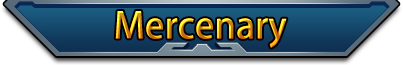
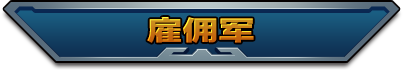
chinese version

diff --git a/Classes/APPConstants.cpp b/Classes/APPConstants.cpp
@@ -653,7 +653,7 @@ void GolbalConfig::initAchievementData(){
         v2 = LOCALIZED_STRING_MAP.find("achieveDetailWin3")->second;
         has_got = cache->getIntegerForKey(ACHIEVE_DATA_KEY_FIRST_WIN_3, REWARDS_STATUS_CLOSED);
         AchievementData data_2 = {2, ACHIEVE_DATA_KEY_FIRST_WIN_3,
-                has_got, 5, 1, "", LEVEL_4_LOCK_STATE_KEY,
+                has_got, 8, 0, "", LEVEL_4_LOCK_STATE_KEY,
                 v1.asString(), v2.asString()
         };
         _systemAchievementData.insert(std::pair<std::string, AchievementData>(ACHIEVE_DATA_KEY_FIRST_WIN_3, data_2));
@@ -662,7 +662,7 @@ void GolbalConfig::initAchievementData(){
         v2 = LOCALIZED_STRING_MAP.find("achieveDetailWin4")->second;
         has_got = cache->getIntegerForKey(ACHIEVE_DATA_KEY_FIRST_WIN_4, REWARDS_STATUS_CLOSED);
         AchievementData data_3 = {3, ACHIEVE_DATA_KEY_FIRST_WIN_4,
-                has_got, 0, 2, "", LEVEL_5_LOCK_STATE_KEY,
+                has_got, 5, 1, "", LEVEL_5_LOCK_STATE_KEY,
                 v1.asString(), v1.asString()
         };
         _systemAchievementData.insert(std::pair<std::string, AchievementData>(ACHIEVE_DATA_KEY_FIRST_WIN_4, data_3));
@@ -671,7 +671,7 @@ void GolbalConfig::initAchievementData(){
         v2 = LOCALIZED_STRING_MAP.find("achieveDetailWin5")->second;
         has_got = cache->getIntegerForKey(ACHIEVE_DATA_KEY_FIRST_WIN_5, REWARDS_STATUS_CLOSED);
         AchievementData data_4 = {4, ACHIEVE_DATA_KEY_FIRST_WIN_5,
-                has_got, 5, 2, "", LEVEL_6_LOCK_STATE_KEY,
+                has_got, 10, 1, "", LEVEL_6_LOCK_STATE_KEY,
                 v1.asString(), v2.asString()
         };
         _systemAchievementData.insert(std::pair<std::string, AchievementData>(ACHIEVE_DATA_KEY_FIRST_WIN_5, data_4));;
@@ -681,7 +681,7 @@ void GolbalConfig::initAchievementData(){
         v2 = LOCALIZED_STRING_MAP.find("achieveDetailWin6")->second;
         has_got = cache->getIntegerForKey(ACHIEVE_DATA_KEY_FIRST_WIN_6, REWARDS_STATUS_CLOSED);
         AchievementData data_5 = {5, ACHIEVE_DATA_KEY_FIRST_WIN_6,
-                has_got, 10, 2, "", LEVEL_7_LOCK_STATE_KEY,
+                has_got, 5, 2, "", LEVEL_7_LOCK_STATE_KEY,
                 v1.asString(), v2.asString()
         };
         _systemAchievementData.insert(std::pair<std::string, AchievementData>(ACHIEVE_DATA_KEY_FIRST_WIN_6, data_5));
@@ -690,7 +690,7 @@ void GolbalConfig::initAchievementData(){
         v2 = LOCALIZED_STRING_MAP.find("achieveDetailWin7")->second;
         has_got = cache->getIntegerForKey(ACHIEVE_DATA_KEY_FIRST_WIN_7, REWARDS_STATUS_CLOSED);
         AchievementData data_6 = {6, ACHIEVE_DATA_KEY_FIRST_WIN_7,
-                has_got, 0, 3, "", LEVEL_8_LOCK_STATE_KEY,
+                has_got, 10, 2, "", LEVEL_8_LOCK_STATE_KEY,
                 v1.asString(), v2.asString()
         };
         _systemAchievementData.insert(std::pair<std::string, AchievementData>(ACHIEVE_DATA_KEY_FIRST_WIN_7, data_6));
@@ -717,7 +717,7 @@ void GolbalConfig::initAchievementData(){
         v2 = LOCALIZED_STRING_MAP.find("achieveShareDetails")->second;
         has_got = cache->getIntegerForKey(ACHIEVE_DATA_KEY_FIRST_SHARE, REWARDS_STATUS_CLOSED);
         AchievementData data_9 = {9, ACHIEVE_DATA_KEY_FIRST_SHARE,
-                has_got, 19,  0, "", "",
+                has_got, 12,  0, "", "",
                 v1.asString(), v2.asString()
         };
         _systemAchievementData.insert(std::pair<std::string, AchievementData>(ACHIEVE_DATA_KEY_FIRST_SHARE, data_9));
@@ -726,7 +726,7 @@ void GolbalConfig::initAchievementData(){
         v2 = LOCALIZED_STRING_MAP.find("achieveEngageDetails")->second;
         has_got = cache->getIntegerForKey(ACHIEVE_DATA_KEY_FIRST_USE_MERCENARY, REWARDS_STATUS_CLOSED);
         AchievementData data_10 = {10, ACHIEVE_DATA_KEY_FIRST_USE_MERCENARY,
-                has_got, 0, 2, "", "",
+                has_got, 9, 1, "", "",
                 v1.asString(), v2.asString()
         };
         _systemAchievementData.insert(std::pair<std::string, AchievementData>(ACHIEVE_DATA_KEY_FIRST_USE_MERCENARY, data_10));
@@ -735,7 +735,7 @@ void GolbalConfig::initAchievementData(){
         v2 = LOCALIZED_STRING_MAP.find("achieveCloseAnimDetails")->second;
         has_got = cache->getIntegerForKey(ACHIEVE_DATA_KEY_FIRST_CLOSE_ANIM, REWARDS_STATUS_CLOSED);
         AchievementData data_11 = {11, ACHIEVE_DATA_KEY_FIRST_CLOSE_ANIM,
-                has_got, 0, 1, "", "",
+                has_got, 8, 0, "", "",
                 v1.asString(), v2.asString()
         };
         _systemAchievementData.insert(std::pair<std::string, AchievementData>(ACHIEVE_DATA_KEY_FIRST_CLOSE_ANIM, data_11));
@@ -744,7 +744,7 @@ void GolbalConfig::initAchievementData(){
         v2 = LOCALIZED_STRING_MAP.find("achieveReplayDetails")->second;
         has_got = cache->getIntegerForKey(ACHIEVE_DATA_KEY_FIRST_RETRY, REWARDS_STATUS_CLOSED);
         AchievementData data_12 = {12, ACHIEVE_DATA_KEY_FIRST_RETRY,
-                has_got, 5, 1, "", "",
+                has_got, 9, 0, "", "",
                 v1.asString(), v2.asString()
         };
         _systemAchievementData.insert(std::pair<std::string, AchievementData>(ACHIEVE_DATA_KEY_FIRST_RETRY, data_12));
@@ -754,7 +754,7 @@ void GolbalConfig::initAchievementData(){
         v2 = LOCALIZED_STRING_MAP.find("achievePurchaseDetails")->second;
         has_got = cache->getIntegerForKey(ACHIEVE_DATA_KEY_FIRST_BUY_COINS, REWARDS_STATUS_CLOSED);
         AchievementData data_13 = {13, ACHIEVE_DATA_KEY_FIRST_BUY_COINS,
-                has_got, 5, 2, "", "",
+                has_got, 10, 0, "", "",
                 v1.asString(),
                 v2.asString()
         };
@@ -765,7 +765,7 @@ void GolbalConfig::initAchievementData(){
         v2 = LOCALIZED_STRING_MAP.find("achieveColorDetails")->second;
         has_got = cache->getIntegerForKey(ACHIEVE_DATA_KEY_FIRST_CHANGE_COLOR, REWARDS_STATUS_CLOSED);
         AchievementData data_14 = {14, ACHIEVE_DATA_KEY_FIRST_CHANGE_COLOR,
-                has_got, 9, 0, "", "",
+                has_got, 5, 0, "", "",
                 v1.asString(), v2.asString()
         };
         _systemAchievementData.insert(std::pair<std::string, AchievementData>(ACHIEVE_DATA_KEY_FIRST_CHANGE_COLOR, data_14));
@@ -775,7 +775,7 @@ void GolbalConfig::initAchievementData(){
         v2 = LOCALIZED_STRING_MAP.find("achieveCharacterDetails")->second;
         has_got = cache->getIntegerForKey(ACHIEVE_DATA_KEY_FIRST_CHANGE_PLAYER, REWARDS_STATUS_CLOSED);
         AchievementData data_15 = {15, ACHIEVE_DATA_KEY_FIRST_CHANGE_PLAYER,
-                has_got, 0, 1, "", "",
+                has_got, 7, 0, "", "",
                 v1.asString(), v2.asString()
         };
         _systemAchievementData.insert(std::pair<std::string, AchievementData>(ACHIEVE_DATA_KEY_FIRST_CHANGE_PLAYER, data_15));
@@ -785,7 +785,7 @@ void GolbalConfig::initAchievementData(){
         v2 = LOCALIZED_STRING_MAP.find("achieveBuyEngageDetails")->second;
         has_got = cache->getIntegerForKey(ACHIEVE_DATA_KEY_FIRST_ENGAGE, REWARDS_STATUS_CLOSED);
         AchievementData data_16 = {16, ACHIEVE_DATA_KEY_FIRST_ENGAGE,
-                has_got, 0, 1, "", "",
+                has_got, 8, 0, "", "",
                 v1.asString(), v2.asString()
         };
         _systemAchievementData.insert(std::pair<std::string, AchievementData>(ACHIEVE_DATA_KEY_FIRST_ENGAGE, data_16));
@@ -876,6 +876,11 @@ void GolbalConfig::initBasic(){
                         RESOURCE_NAME_MAP.insert(std::pair<std::string, std::string>("game_win","game_win_title.png"));
                         RESOURCE_NAME_MAP.insert(std::pair<std::string, std::string>("game_lost","game_lost_title.png"));
                         RESOURCE_NAME_MAP.insert(std::pair<std::string, std::string>("common_tips","common_dialog_title.png"));
+                        
+                        RESOURCE_NAME_MAP.insert(std::pair<std::string, std::string>("level_tittle","level/sel_num_header.png"));
+                        
+                        RESOURCE_NAME_MAP.insert(std::pair<std::string, std::string>("start_game","level/start_game.png"));
+                        RESOURCE_NAME_MAP.insert(std::pair<std::string, std::string>("start_game_sel","level/start_game_sel.png"));
                 }
                         break;
                 case LanguageType::CHINESE:{
@@ -904,6 +909,11 @@ void GolbalConfig::initBasic(){
                         RESOURCE_NAME_MAP.insert(std::pair<std::string, std::string>("game_win","game_win_title_zh.png"));
                         RESOURCE_NAME_MAP.insert(std::pair<std::string, std::string>("game_lost","game_lost_title_zh.png"));
                         RESOURCE_NAME_MAP.insert(std::pair<std::string, std::string>("common_tips","common_dialog_title_zh.png"));
+                        
+                        RESOURCE_NAME_MAP.insert(std::pair<std::string,
+                                                 std::string>("level_tittle","level/sel_num_header_zh.png"));
+                        RESOURCE_NAME_MAP.insert(std::pair<std::string, std::string>("start_game","level/start_game_zh.png"));
+                        RESOURCE_NAME_MAP.insert(std::pair<std::string, std::string>("start_game_sel","level/start_game_sel_zh.png"));
                 }
                         break;
         }

diff --git a/Classes/Scenes/NoviceGuideScene.cpp b/Classes/Scenes/NoviceGuideScene.cpp
@@ -197,7 +197,8 @@ void NoviceGuide::initController(){
         operat_board_m->addChild(_choseMapLayer);
         
         auto OK_btn = cocos2d::ui::Button::create("DIALOG_OK.png", "DIALOG_OK_SEL.png");
-        OK_btn->setTitleText("YES");
+        auto v1 = LOCALIZED_STRING_MAP.find("YES")->second;
+        OK_btn->setTitleText(v1.asString());
         OK_btn->setTitleFontSize(30);
         OK_btn->addClickEventListener(CC_CALLBACK_1(NoviceGuide::menuStartGame, this));
         OK_btn->setPosition(Vec2(tips->getContentSize().width + 0.7f * OK_btn->getContentSize().width,
@@ -206,7 +207,8 @@ void NoviceGuide::initController(){
         
         
         auto NO_btn = cocos2d::ui::Button::create("DIALOG_CANCEL.png", "DIALOG_CANCEL_SEL.png");
-        NO_btn->setTitleText("NO");
+        auto v2 = LOCALIZED_STRING_MAP.find("NO")->second;
+        NO_btn->setTitleText(v2.asString());
         NO_btn->setTitleFontSize(30);
         NO_btn->setPosition(Vec2(OK_btn->getPosition().x + NO_btn->getContentSize().width * 1.1f,
                                  operat_board_m->getContentSize().height / 2));
@@ -228,7 +230,8 @@ void NoviceGuide::initController(){
         operat_board_m->addChild(_endTurnTipsLayer);
         
         _endTurnBtn = cocos2d::ui::Button::create("DIALOG_OK.png", "DIALOG_OK_SEL.png");
-        _endTurnBtn->setTitleText("END TURN");
+        auto v5 = LOCALIZED_STRING_MAP.find("endTurn")->second;
+        _endTurnBtn->setTitleText(v5.asString());
         _endTurnBtn->setTitleFontSize(22);
         _endTurnBtn->addClickEventListener(CC_CALLBACK_1(NoviceGuide::menuEndTurn, this));
         _endTurnBtn->setPosition(Vec2(operat_board_m->getContentSize().width - 48 - _endTurnBtn->getContentSize().width / 2,

diff --git a/Classes/Scenes/LevelSelectScene.cpp b/Classes/Scenes/LevelSelectScene.cpp
@@ -177,7 +177,8 @@ Size LevelSelect::initCenterMainFrame(Vec2 position_num){
         _num_sel_back_grd->setPosition(pos_1);
         chose_num_back->addChild(_num_sel_back_grd);
         
-        auto chose_num_header = Sprite::create("level/sel_num_header.png");
+        
+        auto chose_num_header = Sprite::create(RESOURCE_NAME_MAP.find("level_tittle")->second);
         chose_num_header->setPosition(Vec2(num_size.width / 2,
                                            num_size.height - chose_num_header->getContentSize().height / 2 + 8));
         chose_num_back->addChild(chose_num_header, ZORDER_ITEM_SHOW);
@@ -341,7 +342,9 @@ void LevelSelect::initButtons(Vec2 origin, Size visibleSize){
         system_setting->setPosition(Vec2(origin.x + visibleSize.width -  system_setting->getContentSize().width,
                                      origin.y + 60));
         
-        auto start_game = MenuItemImage::create("level/start_game.png","level/start_game_sel.png", CC_CALLBACK_1(LevelSelect::menuStartGame, this));
+        auto v1 = RESOURCE_NAME_MAP.find("start_game")->second;
+        auto v2 = RESOURCE_NAME_MAP.find("start_game_sel")->second;
+        auto start_game = MenuItemImage::create(v1, v2, CC_CALLBACK_1(LevelSelect::menuStartGame, this));
         start_game->setPosition(Vec2(visibleSize.width / 2,
                                      start_game->getContentSize().height));
         
